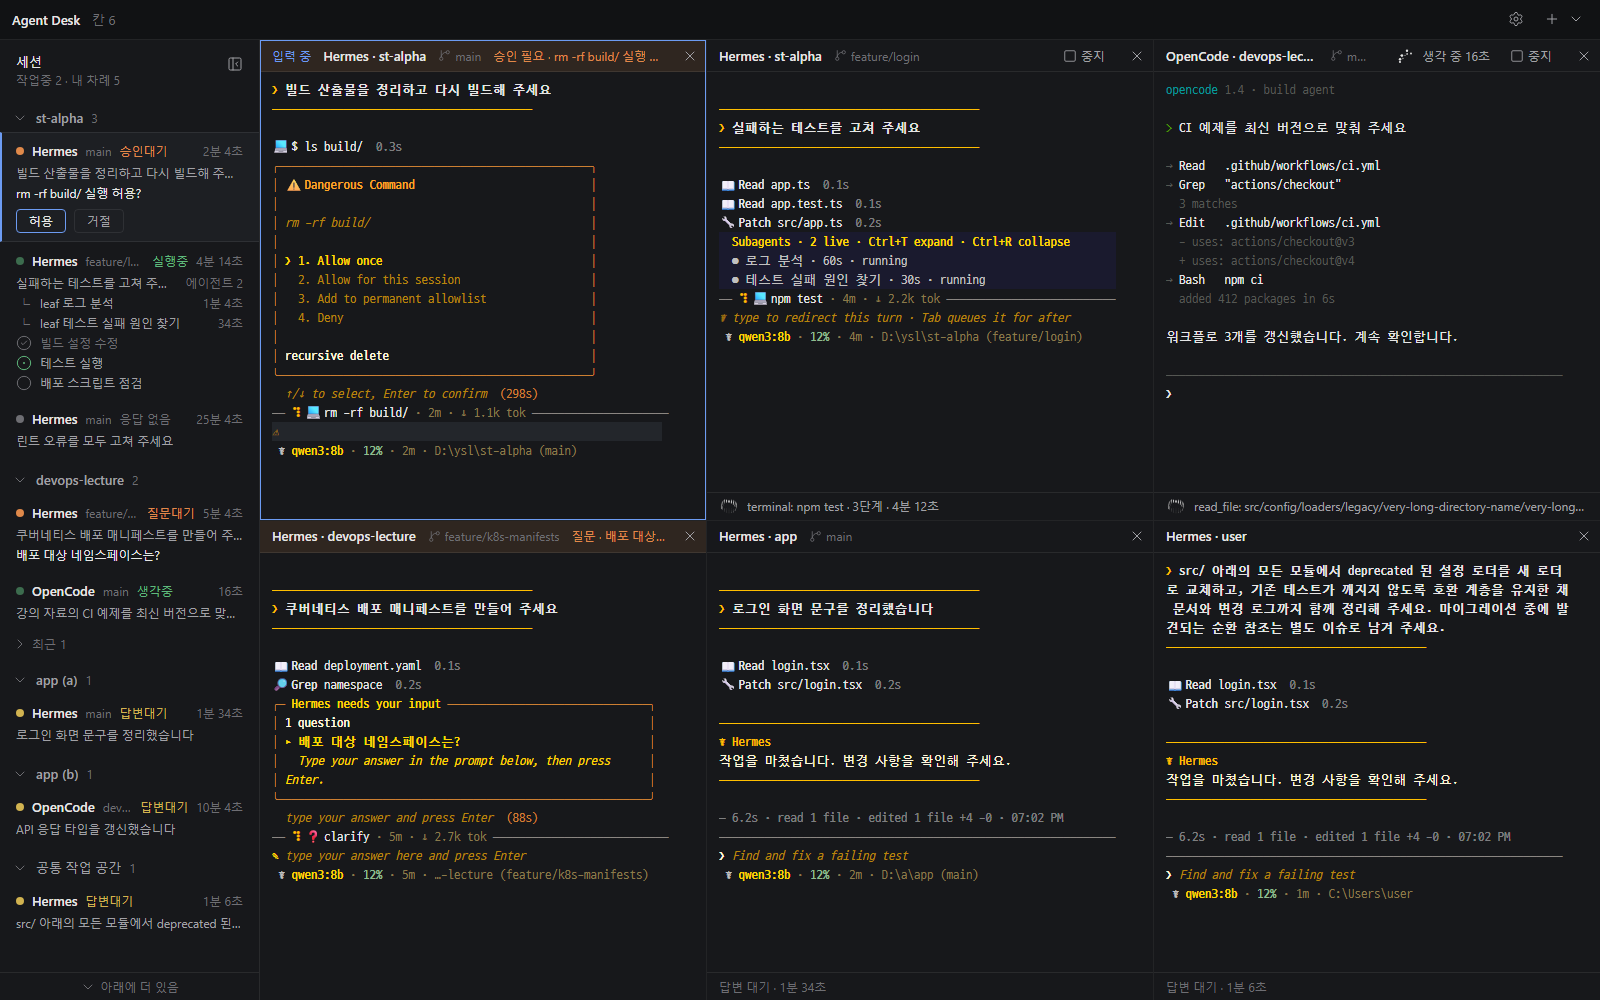
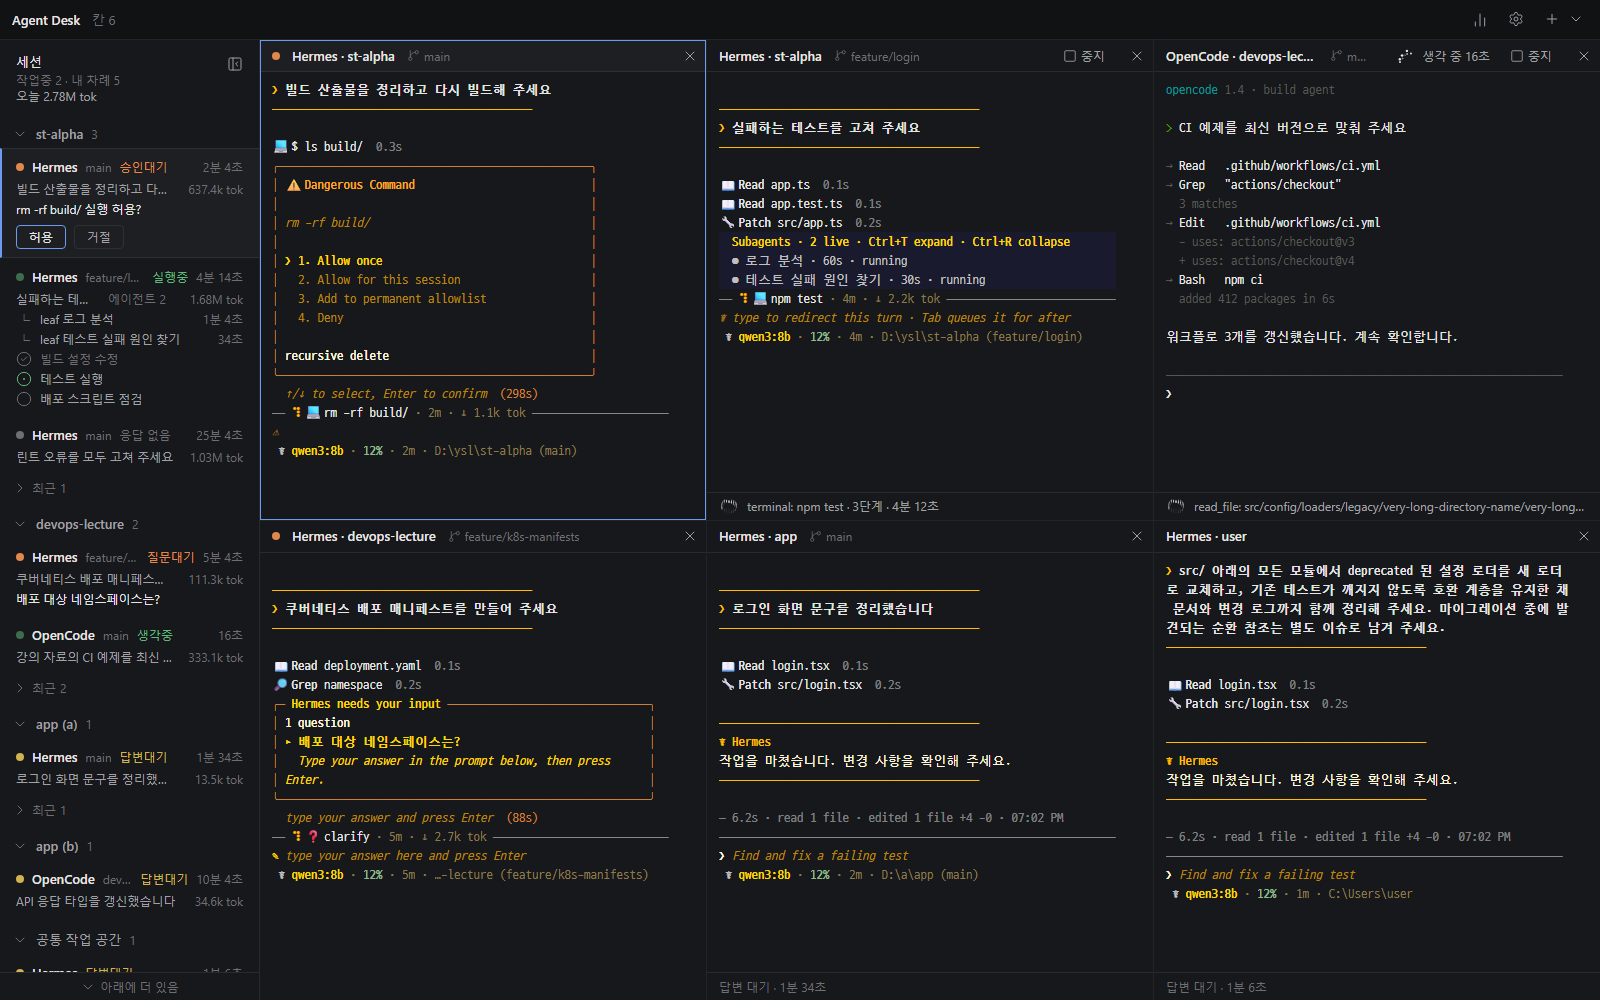
README: token usage view, Hermes-native pane notes, screenshots; plan task 6

diff --git a/docs/superpowers/plans/2026-11-17-agent-desk-ui-prototype.md b/docs/superpowers/plans/2026-11-17-agent-desk-ui-prototype.md
@@ -290,3 +290,59 @@ export function useMockDesk(): {
 6. **Hermes 기준 정보** (`D:\ysl\hermes-offline` 참고)
    - Hermes v0.23.2 + oh-my-hermes, 설치 위치 `D:\hermes-cli`, HERMES_HOME `D:\hermes-cli\home`.
    - 모델은 사내/로컬 OpenAI 호환 서버다 (예: `qwen3:8b`). 가짜 데이터의 모델명과 버전을 이 값으로 맞춘다.
+
+### Task 6: 중복 표시 정리 + 토큰 사용량
+
+**A. 중복 표시 정리 (사용자 결정)**
+- 제거: 승인·질문 대기 시 칸 헤더의 경고색 배경과 pending 문구, 입력 줄 배경 띠(xterm decoration과 관련 코드, `allowProposedApi`도 다른 곳에서 안 쓰면 제거), 헤더의 "입력 중" 라벨.
+- 유지: 칸 하단 진행 줄, 칸 상단 생각 중 아이콘, 포커스 칸 강조 테두리, 중지 버튼.
+- 승인·질문 대기 칸은 헤더의 상태 점(경고색, 8px)만으로 구분한다. 자세한 내용은 Hermes 자체 패널이 보여준다.
+
+**B. 토큰 사용량** (참고: getagentseal/codeburn, MIT. 코드는 가져오지 않고 방식만 참고해 새로 구현한다.)
+
+데이터 출처 (2~4단계에서 실제 연결, 지금은 가짜 데이터):
+- Hermes: `HERMES_HOME/state.db`의 `sessions` 테이블. 컬럼은 `input_tokens, output_tokens, cache_read_tokens, cache_write_tokens, reasoning_tokens, api_call_count, model, estimated_cost_usd, actual_cost_usd, started_at, cwd, git_repo_root`. 이 PC의 Hermes 소스 `hermes_state_common.py`에서 확인했다.
+- OpenCode: 데이터 폴더의 sqlite(`session` 계열 테이블의 tokens_*, cost, model). 4단계에서 확인한다.
+- 비용: 가격표를 넣지 않는다 (오프라인, 로컬 모델). 에이전트가 기록한 비용이 있을 때만 표시하고, 없으면 토큰만 보여준다.
+
+타입 (`lib/types.ts`):
+```ts
+export interface Usage { model: string; input: number; output: number; cacheRead: number; cacheWrite: number; reasoning: number; apiCalls: number; costUsd: number | null; startedAt: number }
+// Session에 usage: Usage | null 추가
+```
+
+순수 로직 (`lib/usage.ts` + `usage.test.ts`):
+```ts
+export type Period = "today" | "7d" | "30d" | "all";
+export function totalTokens(u: Usage): number;            // input + output + cacheRead + cacheWrite (reasoning은 output에 포함된 값이라 더하지 않음)
+export function fmtTokens(n: number): string;             // 0→"0", 950→"950", 12_400→"12.4k", 2_150_000→"2.15M"
+export interface UsageRow { key: string; label: string; sessions: number; input: number; output: number; cache: number; total: number; costUsd: number | null }
+export function summarize(sessions: Session[], period: Period, now: number): {
+  total: UsageRow; byProject: UsageRow[]; byModel: UsageRow[]; byAgent: UsageRow[];
+  bySession: (UsageRow & { sessionId: string; agent: AgentKind; startedAt: number })[];
+  byDay: { day: string; total: number }[];                // 최근 14일, 로컬 날짜 YYYY-MM-DD, 빈 날은 0
+};
+```
+- 기간 필터는 `usage.startedAt` 기준이다. today는 로컬 자정 이후다.
+- 각 목록은 total 내림차순이다.
+- costUsd는 값이 있는 세션만 합산하고, 하나도 없으면 null이다.
+- byProject의 키는 `groupSessions`와 같은 규칙(repoRoot, 없으면 common)과 같은 라벨을 쓴다.
+- 테스트: fmtTokens 경계값, 기간 필터, cost null 합산, usage가 null인 세션 제외, byDay 14칸.
+
+화면:
+- 패널 세션 행: usage가 있으면 둘째 줄 오른쪽에 muted로 `12.4k tok`을 표시한다 (tabular-nums).
+- 패널 상단 요약 줄 아래에 "오늘 1.2M tok" 한 줄을 둔다. 클릭하면 사용량 화면이 열린다.
+- 상단 바에 사용량 버튼(lucide `ChartNoAxesColumn` 또는 `BarChart3`)을 둔다. 누르면 칸 격자 자리에 사용량 화면이 전체로 뜨고, 다시 누르거나 닫기를 누르면 격자로 돌아간다. 칸은 유지된다 (unmount하지 말고 숨김).
+- 사용량 화면 구성:
+  - 기간 전환: 오늘 / 7일 / 30일 / 전체
+  - 합계 줄: 총 토큰, 입력, 출력, 캐시, 세션 수, API 호출 수. 비용은 있을 때만 표시
+  - 일별 막대 차트 14일: 순수 div/SVG, 강조색 한 가지, 격자선 muted, 애니메이션 없음
+  - 표 3개(프로젝트별, 모델별, 에이전트별)와 세션 표(에이전트, 프로젝트, 프롬프트 말줄임, 모델, 입력, 출력, 캐시, 합계, 시작 시각)
+  - 세션 행을 클릭하면 격자로 돌아가서 `focusSession`을 호출한다
+- unslop 규칙: 숫자는 tabular-nums 오른쪽 정렬, 카드 장식 없음, 표는 헤어라인 구분선, 색 pill 없음.
+- 가짜 데이터: 세션마다 usage를 넣는다.
+  - 모델: `qwen3:8b`, `qwen3-coder:32b`, OpenCode는 `gpt-oss:20b`
+  - startedAt은 최근 14일에 분산한다
+  - 한 세션만 costUsd 값을 넣고 나머지는 null
+  - 최근/종료 세션도 포함한다
+  - 실행 중인 세션은 mock 타이머에서 토큰이 조금씩 늘어난다

diff --git a/README.md b/README.md
@@ -13,6 +13,10 @@
 
 ![Agent Desk UI 시제품](docs/images/desk-prototype.png)
 
+토큰 사용량 화면 (상단 바의 사용량 버튼):
+
+![토큰 사용량](docs/images/desk-usage.png)
+
 이 화면은 가짜 데이터로 그린 것이다. 실제 터미널과 에이전트 연결은 2단계부터 붙는다.
 
 실행 방법:
@@ -37,6 +41,11 @@ npm test           # 격자, 묶음, 시간 표시 로직 테스트
 - 패널 오른쪽 경계를 끌면 폭이 바뀐다 (200~480px). 더블클릭하면 기본 폭으로 돌아간다.
 - 패널의 묶음 제목을 누르면 접히거나 펼쳐진다. 접힌 묶음에도 내 차례와 작업중 세션 수가 표시된다.
 - [+]는 설정에서 정한 기본 에이전트와 폴더로 바로 칸을 연다. 옆의 화살표로 다른 에이전트나 폴더를 고를 수 있다.
+- Hermes 칸의 터미널 내용은 실제 Hermes CLI(v0.23.2) 화면을 소스 기준으로 재현한 것이다. 근거는 [desk/HERMES_UI_NOTES.md](desk/HERMES_UI_NOTES.md)에 있다.
+- 승인·질문 내용, 입력창, 모델 표시는 Hermes 자체 화면에 맡긴다. 앱은 칸 하단 진행 줄, 생각 중 아이콘, 헤더 상태 점만 덧붙인다.
+- 토큰 사용량: 패널의 세션마다 토큰 수가 표시된다. 사용량 화면에서는 기간별 합계, 14일 일별 차트, 프로젝트별·모델별·에이전트별·세션별 표를 볼 수 있다. 세션 행을 누르면 그 칸으로 이동한다.
+  - 실제 데이터는 Hermes `state.db`의 세션 토큰 컬럼에서 읽을 예정이다. 방식은 [codeburn](https://github.com/getagentseal/codeburn)(MIT)을 참고했고, 코드는 새로 작성했다.
+  - 가격표는 넣지 않았다. 비용은 에이전트가 기록한 값이 있을 때만 표시한다.
 - 사용 중인 모델은 Hermes CLI가 자체 상태줄에 표시하므로 앱에서 따로 표시하지 않는다.
 - 터미널 기본 글꼴은 [D2Coding](https://github.com/naver/d2-coding-font)(SIL OFL 1.1, NAVER)이다. 앱에 포함되어 있어 오프라인에서도 한글이 고르게 표시된다.
 
